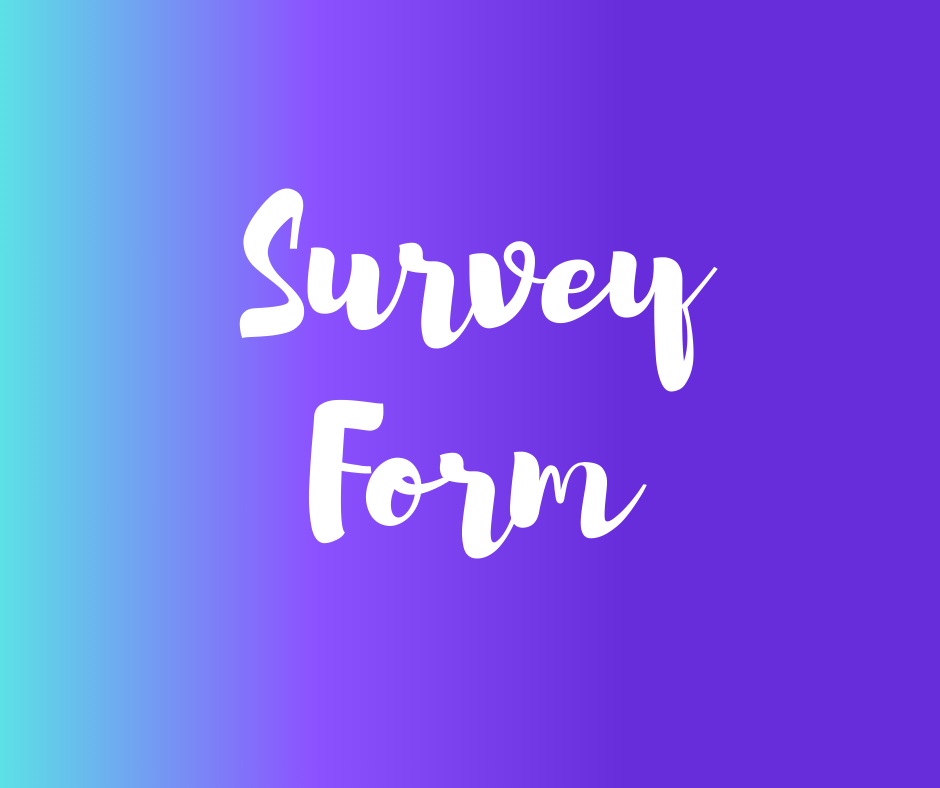
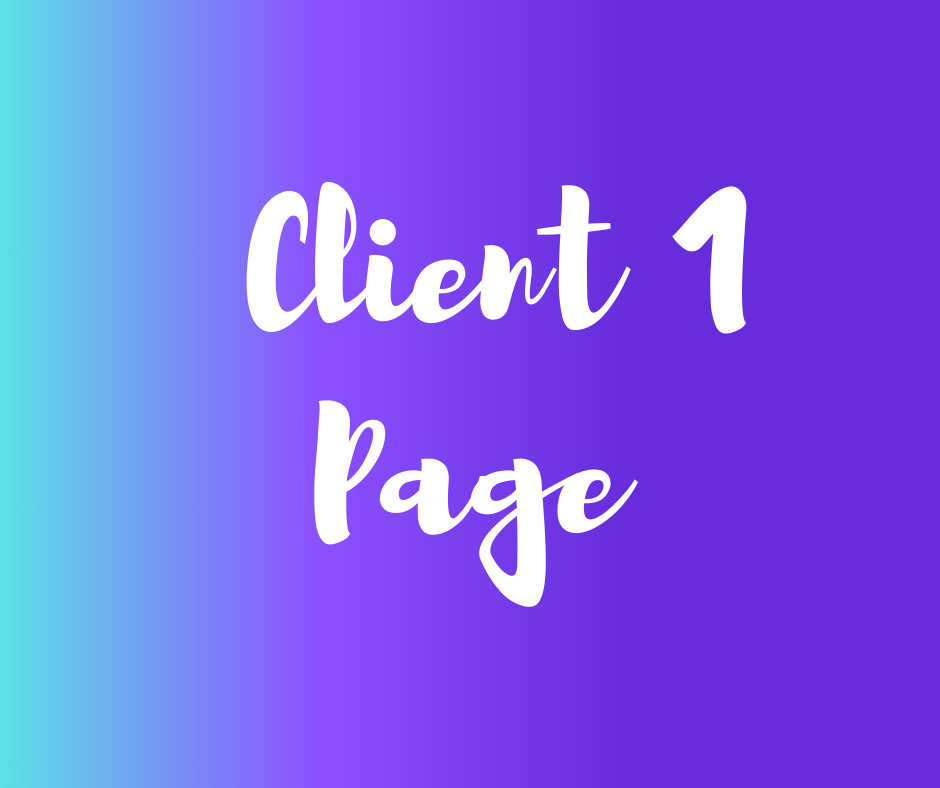
changed image 1

Changed region(s): [[0.2468, 0.2132, 0.8021, 0.5178], [0.3085, 0.4873, 0.6787, 0.7919]]

diff --git a/index.html b/index.html
@@ -85,7 +85,7 @@
       <div class="projects-grid">
 
         <a
-          href="https://vanessasecolles.github.io/SurveyForm/"
+          href="https://vanessasecolles.github.io/ProdPage/"
           target="_blank"
           class="project project-tile"
         >
@@ -96,7 +96,7 @@
           />
           <p class="project-title">
             <span class="code">&lt;</span>
-            Survey Form
+            Client 1 Page
             <span class="code">&#47;&gt;</span>
           </p>
         </a>
